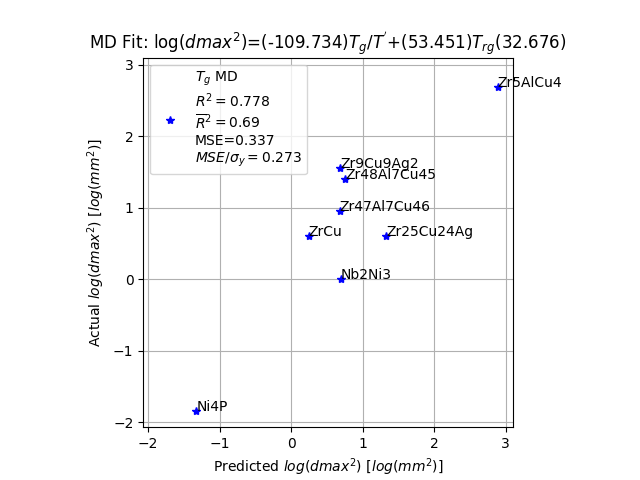
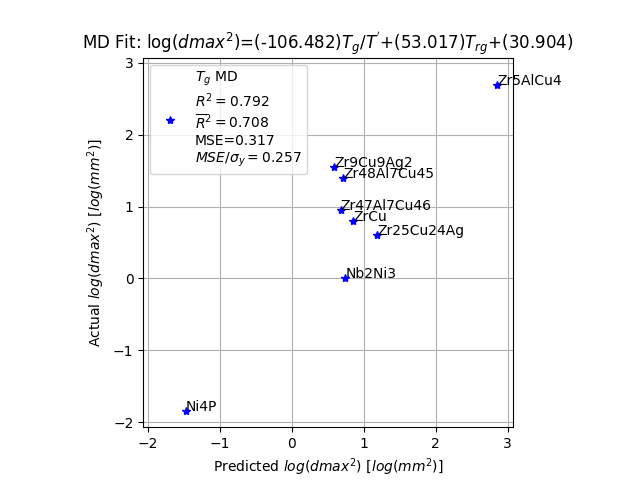
Fixed typo

diff --git a/ml/visc_diff/scripts/fit_md_diff_tcut.py b/ml/visc_diff/scripts/fit_md_diff_tcut.py
@@ -83,7 +83,7 @@ sigs = 3
 label = 'MD Fit: '
 label += r'log($dmax^2$)='
 label += '('+str(round(coeffs[0], sigs))+r"$)T_{g}/T^{'}$+"
-label += '('+str(round(coeffs[1], sigs))+r'$)T_{rg}$'
+label += '('+str(round(coeffs[1], sigs))+r'$)T_{rg}$+'
 label += '('+str(round(intercpet, sigs))+')'
 
 ax.set_title(label)

diff --git a/ml/visc_diff/scripts/fit_md_visc_tcut.py b/ml/visc_diff/scripts/fit_md_visc_tcut.py
@@ -83,7 +83,7 @@ sigs = 3
 label = 'MD Fit: '
 label += r'log($dmax^2$)='
 label += '('+str(round(coeffs[0], sigs))+r"$)T_{g}/T^{'}$+"
-label += '('+str(round(coeffs[1], sigs))+r'$)T_{rg}$'
+label += '('+str(round(coeffs[1], sigs))+r'$)T_{rg}$+'
 label += '('+str(round(intercpet, sigs))+')'
 
 ax.set_title(label)

diff --git a/ml/visc_diff_Nb2Ni3_removed/scripts/fit_md_diff_tcut.py b/ml/visc_diff_Nb2Ni3_removed/scripts/fit_md_diff_tcut.py
@@ -84,7 +84,7 @@ sigs = 3
 label = 'MD Fit: '
 label += r'log($dmax^2$)='
 label += '('+str(round(coeffs[0], sigs))+r"$)T_{g}/T^{'}$+"
-label += '('+str(round(coeffs[1], sigs))+r'$)T_{rg}$'
+label += '('+str(round(coeffs[1], sigs))+r'$)T_{rg}$+'
 label += '('+str(round(intercpet, sigs))+')'
 
 ax.set_title(label)

diff --git a/ml/visc_diff_Nb2Ni3_removed/scripts/fit_md_visc_tcut.py b/ml/visc_diff_Nb2Ni3_removed/scripts/fit_md_visc_tcut.py
@@ -84,7 +84,7 @@ sigs = 3
 label = 'MD Fit: '
 label += r'log($dmax^2$)='
 label += '('+str(round(coeffs[0], sigs))+r"$)T_{g}/T^{'}$+"
-label += '('+str(round(coeffs[1], sigs))+r'$)T_{rg}$'
+label += '('+str(round(coeffs[1], sigs))+r'$)T_{rg}$+'
 label += '('+str(round(intercpet, sigs))+')'
 
 ax.set_title(label)
